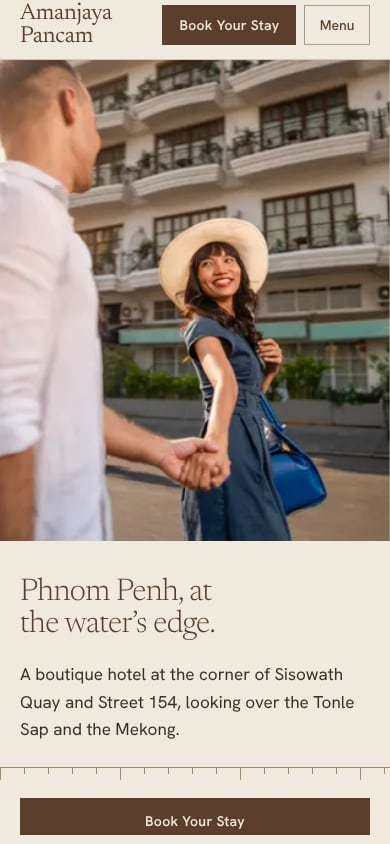
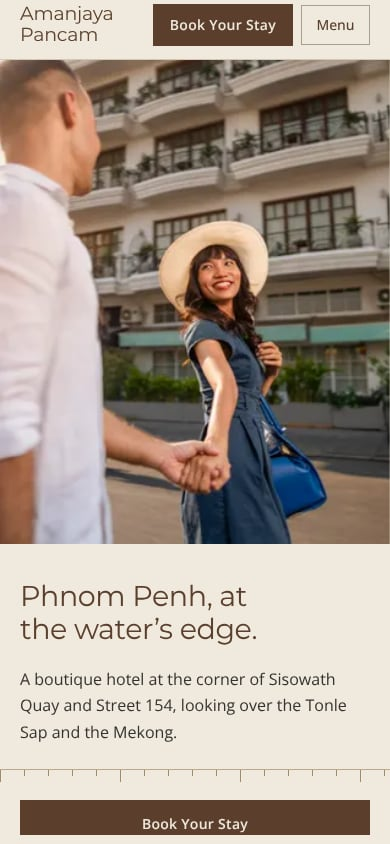
Typography experiment: Montserrat headings + Open Sans text
Replaces Newsreader / Hanken Grotesk with Montserrat Regular (headings) and
Open Sans Regular (text), two families the original site also loaded, to
move closer to its look and feel with quieter, more contemporary type.
Layout, imagery, colours, waterline and structure are unchanged.

- Scale (fluid 360 to 1280px): H1 28 to 46px, H2 24 to 32px, H3 19 to 23px,
  body 16 to 17px with 1.65 line height, lead text 17 to 18px. Regular
  weights, sentence case, no display-size type.
- Wordmark, suite names, footer headings and welcome text moved to the new
  families; buttons and navigation use Open Sans 600 / 500.
- Unselected suite names raised from 62% to 75% opacity: at the smaller size
  they would otherwise fall below 4.5:1 contrast (now about 5.2:1).
- Font packages swapped; docs/TYPOGRAPHY.md and DESIGN-RATIONALE updated, with
  a before/after comparison. The Newsreader version remains at 15a7fa7.
- Refreshed desktop and mobile screenshots.

Claude-Session: https://claude.ai/code/session_01Ltb6LhfXKYs7J7ZKfoUyej

diff --git a/src/styles/global.css b/src/styles/global.css
@@ -13,19 +13,18 @@
   --sage-text: #55625b; /* secondary text on ivory (5.3:1) */
   --ivory-soft: #d5cdbd; /* body text on teak (6.1:1) */
 
-  --font-serif: 'Newsreader Variable', 'Iowan Old Style', 'Palatino Linotype', Georgia, serif;
-  --font-sans: 'Hanken Grotesk Variable', system-ui, -apple-system, 'Segoe UI', sans-serif;
+  /* Typography revision: Montserrat (headings) and Open Sans (text), the two families the original site also loaded. */
+  --font-heading: 'Montserrat Variable', 'Segoe UI', system-ui, -apple-system, sans-serif;
+  --font-body: 'Open Sans Variable', 'Segoe UI', system-ui, -apple-system, sans-serif;
 
-  --step--1: clamp(0.875rem, 0.85rem + 0.1vw, 0.9375rem);
-  --step-0: clamp(1.0625rem, 1.02rem + 0.2vw, 1.1875rem);
-  --step-1: clamp(1.25rem, 1.15rem + 0.5vw, 1.5rem);
-  /* Heading steps (h3, h2, h1). Fluid between 360px and 1280px wide, then fixed.
-     Largest sizes are 75% of the previous scale (2.25 / 3.5 / 4.9rem); the small-screen floors are
-     reduced by about 20-25% rather than more, so headings stay comfortably above body size on phones.
-     Body steps (--step--1 to --step-1) are unchanged. */
-  --step-2: clamp(1.3rem, 1.148rem + 0.674vw, 1.6875rem); /* h3: 20.8px to 27px */
-  --step-3: clamp(1.55rem, 1.129rem + 1.87vw, 2.625rem); /* h2: 24.8px to 42px */
-  --step-4: clamp(1.9rem, 1.206rem + 3.087vw, 3.675rem); /* h1: 30.4px to 58.8px */
+  /* Fluid between 360px and 1280px wide, then fixed.
+     Body 16 to 17px. Headings are quiet: H1 28 to 46px, H2 24 to 32px, H3 19 to 23px. */
+  --step--1: clamp(0.875rem, 0.85rem + 0.1vw, 0.9375rem); /* small UI text: 14 to 15px */
+  --step-0: clamp(1rem, 0.976rem + 0.109vw, 1.0625rem); /* body: 16 to 17px */
+  --step-1: clamp(1.0625rem, 1.038rem + 0.109vw, 1.125rem); /* lead text and small headings: 17 to 18px */
+  --step-2: clamp(1.1875rem, 1.09rem + 0.435vw, 1.4375rem); /* h3 */
+  --step-3: clamp(1.5rem, 1.304rem + 0.87vw, 2rem); /* h2 */
+  --step-4: clamp(1.75rem, 1.31rem + 1.957vw, 2.875rem); /* h1 */
 
   --gutter: clamp(1.25rem, 4.5vw, 3.5rem);
   --max: 84rem;
@@ -49,9 +48,10 @@ body {
   margin: 0;
   background: var(--ivory);
   color: var(--charcoal);
-  font-family: var(--font-sans);
+  font-family: var(--font-body);
   font-size: var(--step-0);
-  line-height: 1.6;
+  font-weight: 400;
+  line-height: 1.65;
   font-optical-sizing: auto;
   text-rendering: optimizeLegibility;
 }
@@ -81,26 +81,28 @@ ol {
 h1,
 h2,
 h3 {
-  font-family: var(--font-serif);
-  font-weight: 340;
-  line-height: 1.08;
-  letter-spacing: -0.012em;
+  font-family: var(--font-heading);
+  font-weight: 400;
+  line-height: 1.25;
+  letter-spacing: 0;
   text-wrap: balance;
 }
 
 h1 {
   font-size: var(--step-4);
-  font-weight: 300;
-  line-height: 1.02;
-  letter-spacing: -0.02em;
+  line-height: 1.15;
+  letter-spacing: -0.015em;
 }
 
 h2 {
   font-size: var(--step-3);
+  line-height: 1.2;
+  letter-spacing: -0.01em;
 }
 
 h3 {
   font-size: var(--step-2);
+  line-height: 1.3;
 }
 
 p {
@@ -175,9 +177,9 @@ a:hover {
   background: var(--teak);
   color: var(--ivory);
   border: 1px solid var(--teak);
-  font-family: var(--font-sans);
+  font-family: var(--font-body);
   font-size: var(--step--1);
-  font-weight: 560;
+  font-weight: 600;
   letter-spacing: 0.02em;
   text-decoration: none;
   white-space: nowrap;

diff --git a/docs/TYPOGRAPHY.md b/docs/TYPOGRAPHY.md
@@ -1,6 +1,8 @@
 # Typography
 
-## 1. Heading scale (changed)
+> **Current direction (typography experiment 2): Montserrat Regular headings + Open Sans Regular text.** Section 5 describes it. Sections 1 to 4 record the earlier Newsreader / Hanken Grotesk direction and the research on the original site, which still stands. The Newsreader version is preserved in git at commit `15a7fa7`.
+
+## 1. Heading scale (earlier Newsreader pass, superseded by section 5)
 
 Headings are about 25% smaller at desktop widths. The change is in the type scale (`--step-2`, `--step-3`, `--step-4` in `src/styles/global.css`), not in individual overrides. Body steps (`--step--1` to `--step-1`) are untouched: every body, caption, navigation and button size measures identically before and after.
 
@@ -58,7 +60,7 @@ Any one of these settles it:
 
 `docs/screenshots/typography/pairing-comparison.jpg` sets four pairings side by side with the same copy: ours, Roboto Slab + Roboto, Montserrat + Open Sans, and Poppins + Open Sans. It is illustrative only, built from the loaded fonts; it does not reproduce the live site.
 
-## 4. Recommendation
+## 4. Recommendation (earlier; the team has since chosen to move closer to the original, see section 5)
 
 **Retain Newsreader and Hanken Grotesk for now, and settle two things before deciding anything more.**
 
@@ -71,3 +73,43 @@ Then:
 - **Hanken Grotesk can stay.** It sits in the same neutral sans lane as Roboto and Open Sans, so body text will not feel foreign to returning guests, and it has slightly more character.
 - **Newsreader is the only choice with real distance from the original** (a quiet, bookish serif against sturdy slabs and geometric sans). That is the point of the creative direction, but it is the thing to revisit if the audit shows the hotel values its slab headings.
 - **Nothing to replace now.** No font family was changed in this pass.
+
+## 5. Typography experiment 2: Montserrat + Open Sans
+
+**Direction from the team:** Newsreader read as too large and dominant, so move closer to the original site's typography with quieter, more contemporary type. Layout, imagery, colours, the waterline and the structure are unchanged.
+
+### Which combination
+
+Montserrat Regular for headings and Open Sans Regular for text, as proposed. The original site's CSS is not in the exports (see section 2), so there is no evidence for a *more* faithful pairing, and no evidence against this one: both families were loaded by the original site. Which roles they play there is still unverified; `npm run audit:fonts` on the live site would show it. If it reveals something different, the swap is two lines in `src/styles/global.css` (`--font-heading`, `--font-body`) and two imports in `src/layouts/Base.astro`.
+
+### Sizes (fluid from 360px to 1280px wide, then fixed)
+
+| Role | Phone (360px) | Desktop (1280px and up) | Brief |
+|---|---|---|---|
+| H1 | 28px | 46px | 44 to 48px max |
+| H2 | 24px | 32px | 30 to 34px |
+| H3 (also suite names, footer name) | 19px | 23px | 22 to 24px |
+| Body | 16px | 17px | 16 to 17px |
+| Lead text (welcome paragraphs), small headings | 17px | 18px | |
+| Small UI text (nav, buttons, captions) | 14px | 15px | unchanged |
+
+Compared with the Newsreader version, the desktop H1 drops from 58.8px to 46px, H2 from 42px to 32px, H3 from 27px to 23px. Body drops from 17 to 19px to 16 to 17px, and the welcome paragraphs from 20 to 24px (they were set in the serif) to 17 to 18px.
+
+### Weight, spacing and detail
+
+- Headings are Montserrat 400 (Regular), sentence case, with slight negative tracking on H1 and H2 and a line height of 1.15 to 1.3. Text is Open Sans 400 with a line height of 1.65. Buttons are Open Sans 600, navigation 500.
+- The header wordmark and footer name are now Montserrat Regular. The wordmark is set in type, not the real logo file, which still needs to come from the hotel.
+- Chromium's font inspector labels the variable Montserrat file "Thin": that is only the default instance name of the variable font. The rendered weight is 400, as the screenshots show.
+- Accessibility: with the smaller type, the unselected suite names would have dropped below 4.5:1 contrast (62% opacity gave 3.6:1). They are now 75% opacity, about 5.2:1. All other text and background colours are unchanged and still pass.
+
+### Measured
+
+`npm run audit:fonts` against the preview reports Montserrat for H1 to H3 and the brand text, and Open Sans for body, paragraphs, buttons and navigation. Computed sizes at 360, 390, 768, 1100, 1440 and 1920px match the table above.
+
+### Cost and caveats
+
+- Same number of families as before (two). Both are open source (SIL OFL) and self-hosted from the build. Neither covers Khmer; Noto Sans Khmer remains the plan for that.
+- Montserrat is a wide face, so it reads larger than its pixel size suggests. That is why the maxima sit at the low end of the briefed ranges.
+- Compared with the Newsreader direction, this is more neutral and closer to a typical hotel template. It gains familiarity with the original site and loses the editorial character. Whether that trade is right is the point of this experiment.
+
+Screenshots: `docs/screenshots/` (desktop and mobile, refreshed), and `docs/screenshots/typography/newsreader-vs-montserrat-desktop.jpg` and `-mobile.jpg` compare the two directions directly.

diff --git a/docs/DESIGN-RATIONALE.md b/docs/DESIGN-RATIONALE.md
@@ -10,10 +10,12 @@ The hero text sits on a solid ivory panel that rises from the page into the phot
 
 ## Type
 
-- Headings: Newsreader (variable, light weights, optical sizes), self-hosted.
-- Interface and body: Hanken Grotesk (variable), self-hosted.
-- Fluid scale from `--step--1` to `--step-4`; lines held to about 62 characters. Headings run 20.8 to 27px (H3), 24.8 to 42px (H2) and 30.4 to 58.8px (H1) between 360 and 1280px wide; body text is 17 to 19px. Details and the history of this change are in `docs/TYPOGRAPHY.md`.
-- Both are open-source (SIL OFL). Noto Serif/Sans Khmer are the planned pair for Khmer later.
+Typography experiment 2 (the Newsreader / Hanken Grotesk direction is in git at `15a7fa7`):
+
+- Headings: Montserrat Regular. Text and interface: Open Sans Regular. Both are open source (SIL OFL), self-hosted, and both were loaded by the original site.
+- Fluid scale from `--step--1` to `--step-4` between 360 and 1280px wide. Body 16 to 17px; H3 19 to 23px, H2 24 to 32px, H1 28 to 46px; lines held to about 62 characters, line height 1.65 for text.
+- Quiet by design: regular weights only, sentence case, no oversized display type. Details and the history are in `docs/TYPOGRAPHY.md`.
+- Neither font covers Khmer; Noto Sans Khmer is the planned partner later.
 
 ## Colour
 

diff --git a/README.md b/README.md
@@ -33,7 +33,7 @@ The hotel's own photographs are committed in `src/assets/photos/` (never hotlink
 |---|---|
 | Hotel facts, booking link, contact, nav | `src/config/site.ts` |
 | Homepage copy and photo choices | `src/content/home.ts` |
-| Colours, type scale, waterline motif | `src/styles/global.css` |
+| Colours, type scale (Montserrat + Open Sans), waterline motif | `src/styles/global.css` |
 | Page sections | `src/components/` |
 | Sources, placeholders, questions for the hotel | `docs/CONTENT-SOURCES.md` |
 | Design rationale | `docs/DESIGN-RATIONALE.md` |
